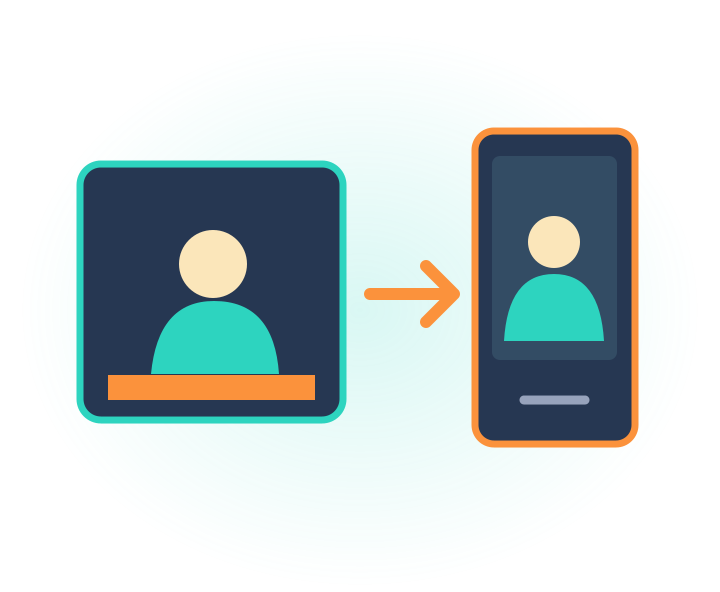
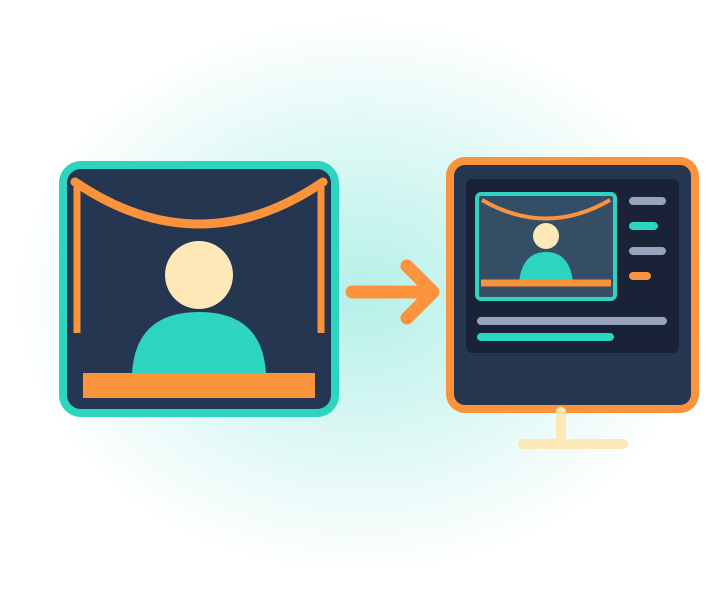
fix(deck-import): clarify OBS capture art and reset reading position

Changed region(s): [[0.0611, 0.2128, 0.9778, 0.7601]]

diff --git a/apps/web/src/components/DeckImportPreview.test.tsx b/apps/web/src/components/DeckImportPreview.test.tsx
@@ -54,8 +54,14 @@ describe("URL image render and preview", () => {
     fireEvent.click(screen.getByRole("button", { name: "拡大して読む" }));
     expect(region.querySelector("div[style*=\"width: 960px\"]")).toBeTruthy();
     expect(screen.getByText(/左右にスクロール/)).toBeInTheDocument();
+    region.scrollLeft = 640;
     fireEvent.click(screen.getByRole("button", { name: "次のページ" }));
     expect(screen.getByRole("region", { name: "2ページ目" })).toBeInTheDocument();
+    expect(region.scrollLeft).toBe(0);
+    region.scrollLeft = 640;
+    fireEvent.click(screen.getByRole("button", { name: "1ページ目" }));
+    expect(region.scrollLeft).toBe(0);
+    fireEvent.click(screen.getByRole("button", { name: "2ページ目" }));
     fireEvent.click(screen.getByRole("button", { name: "拡大表示を閉じる" }));
     expect(screen.getByRole("region", { name: "2ページ目" }).querySelector("div[style*=\"width: 320px\"]")).toBeTruthy();
   });

diff --git a/apps/web/src/components/DeckImportPreview.tsx b/apps/web/src/components/DeckImportPreview.tsx
@@ -1,4 +1,4 @@
-import { useEffect, useRef, useState } from "react";
+import { useEffect, useLayoutEffect, useRef, useState } from "react";
 import { Box, Button, Stack, Typography, Alert } from "@mui/material";
 import { useTranslation } from "react-i18next";
 import type { DeckContent, DeckSlide } from "@eventer/shared";
@@ -56,6 +56,9 @@ export function DeckImportPreview({ content }: { content: DeckContent }) {
     return () => { clearTimeout(timer); measure.remove(); };
   }, [content, ref]);
   const page = Math.min(selected, content.slides.length - 1);
+  useLayoutEffect(() => {
+    if (reading && ref.current) ref.current.scrollLeft = 0;
+  }, [page, reading, ref]);
   const onImageStatus = (slideIndex: number, elementId: string, src: string, status: "loaded" | "error") => {
     const slide = content.slides[slideIndex];
     if (!slide?.elements.some((el) => el.id === elementId && el.src === src)) return;

diff --git a/apps/web/src/pages/DeckViewerPage.test.tsx b/apps/web/src/pages/DeckViewerPage.test.tsx
@@ -15,8 +15,10 @@ it("lets mobile viewers read at original size without slide-tap advancement", ()
   expect(region.querySelector("div[style*=\"width: 960px\"]")).toBeTruthy();
   fireEvent.click(region.firstElementChild!);
   expect(screen.getByText("1 / 2")).toBeInTheDocument();
+  region.scrollLeft = 640;
   fireEvent.click(container.querySelectorAll("button")[2]);
   expect(screen.getByRole("region", { name: "2ページ目" })).toBeInTheDocument();
+  expect(region.scrollLeft).toBe(0);
   fireEvent.click(screen.getByRole("button", { name: "拡大表示を閉じる" }));
   expect(screen.queryByRole("region")).not.toBeInTheDocument();
 });

diff --git a/apps/web/src/pages/DeckViewerPage.tsx b/apps/web/src/pages/DeckViewerPage.tsx
@@ -32,6 +32,10 @@ export function DeckViewerPage() {
     if (deck) ensureDeckFonts(deck.content);
   }, [deck]);
 
+  useLayoutEffect(() => {
+    if (reading && wrapRef.current) wrapRef.current.scrollLeft = 0;
+  }, [index, reading]);
+
   const slides = deck?.content.slides ?? [];
   const total = slides.length;
   const go = useCallback(
